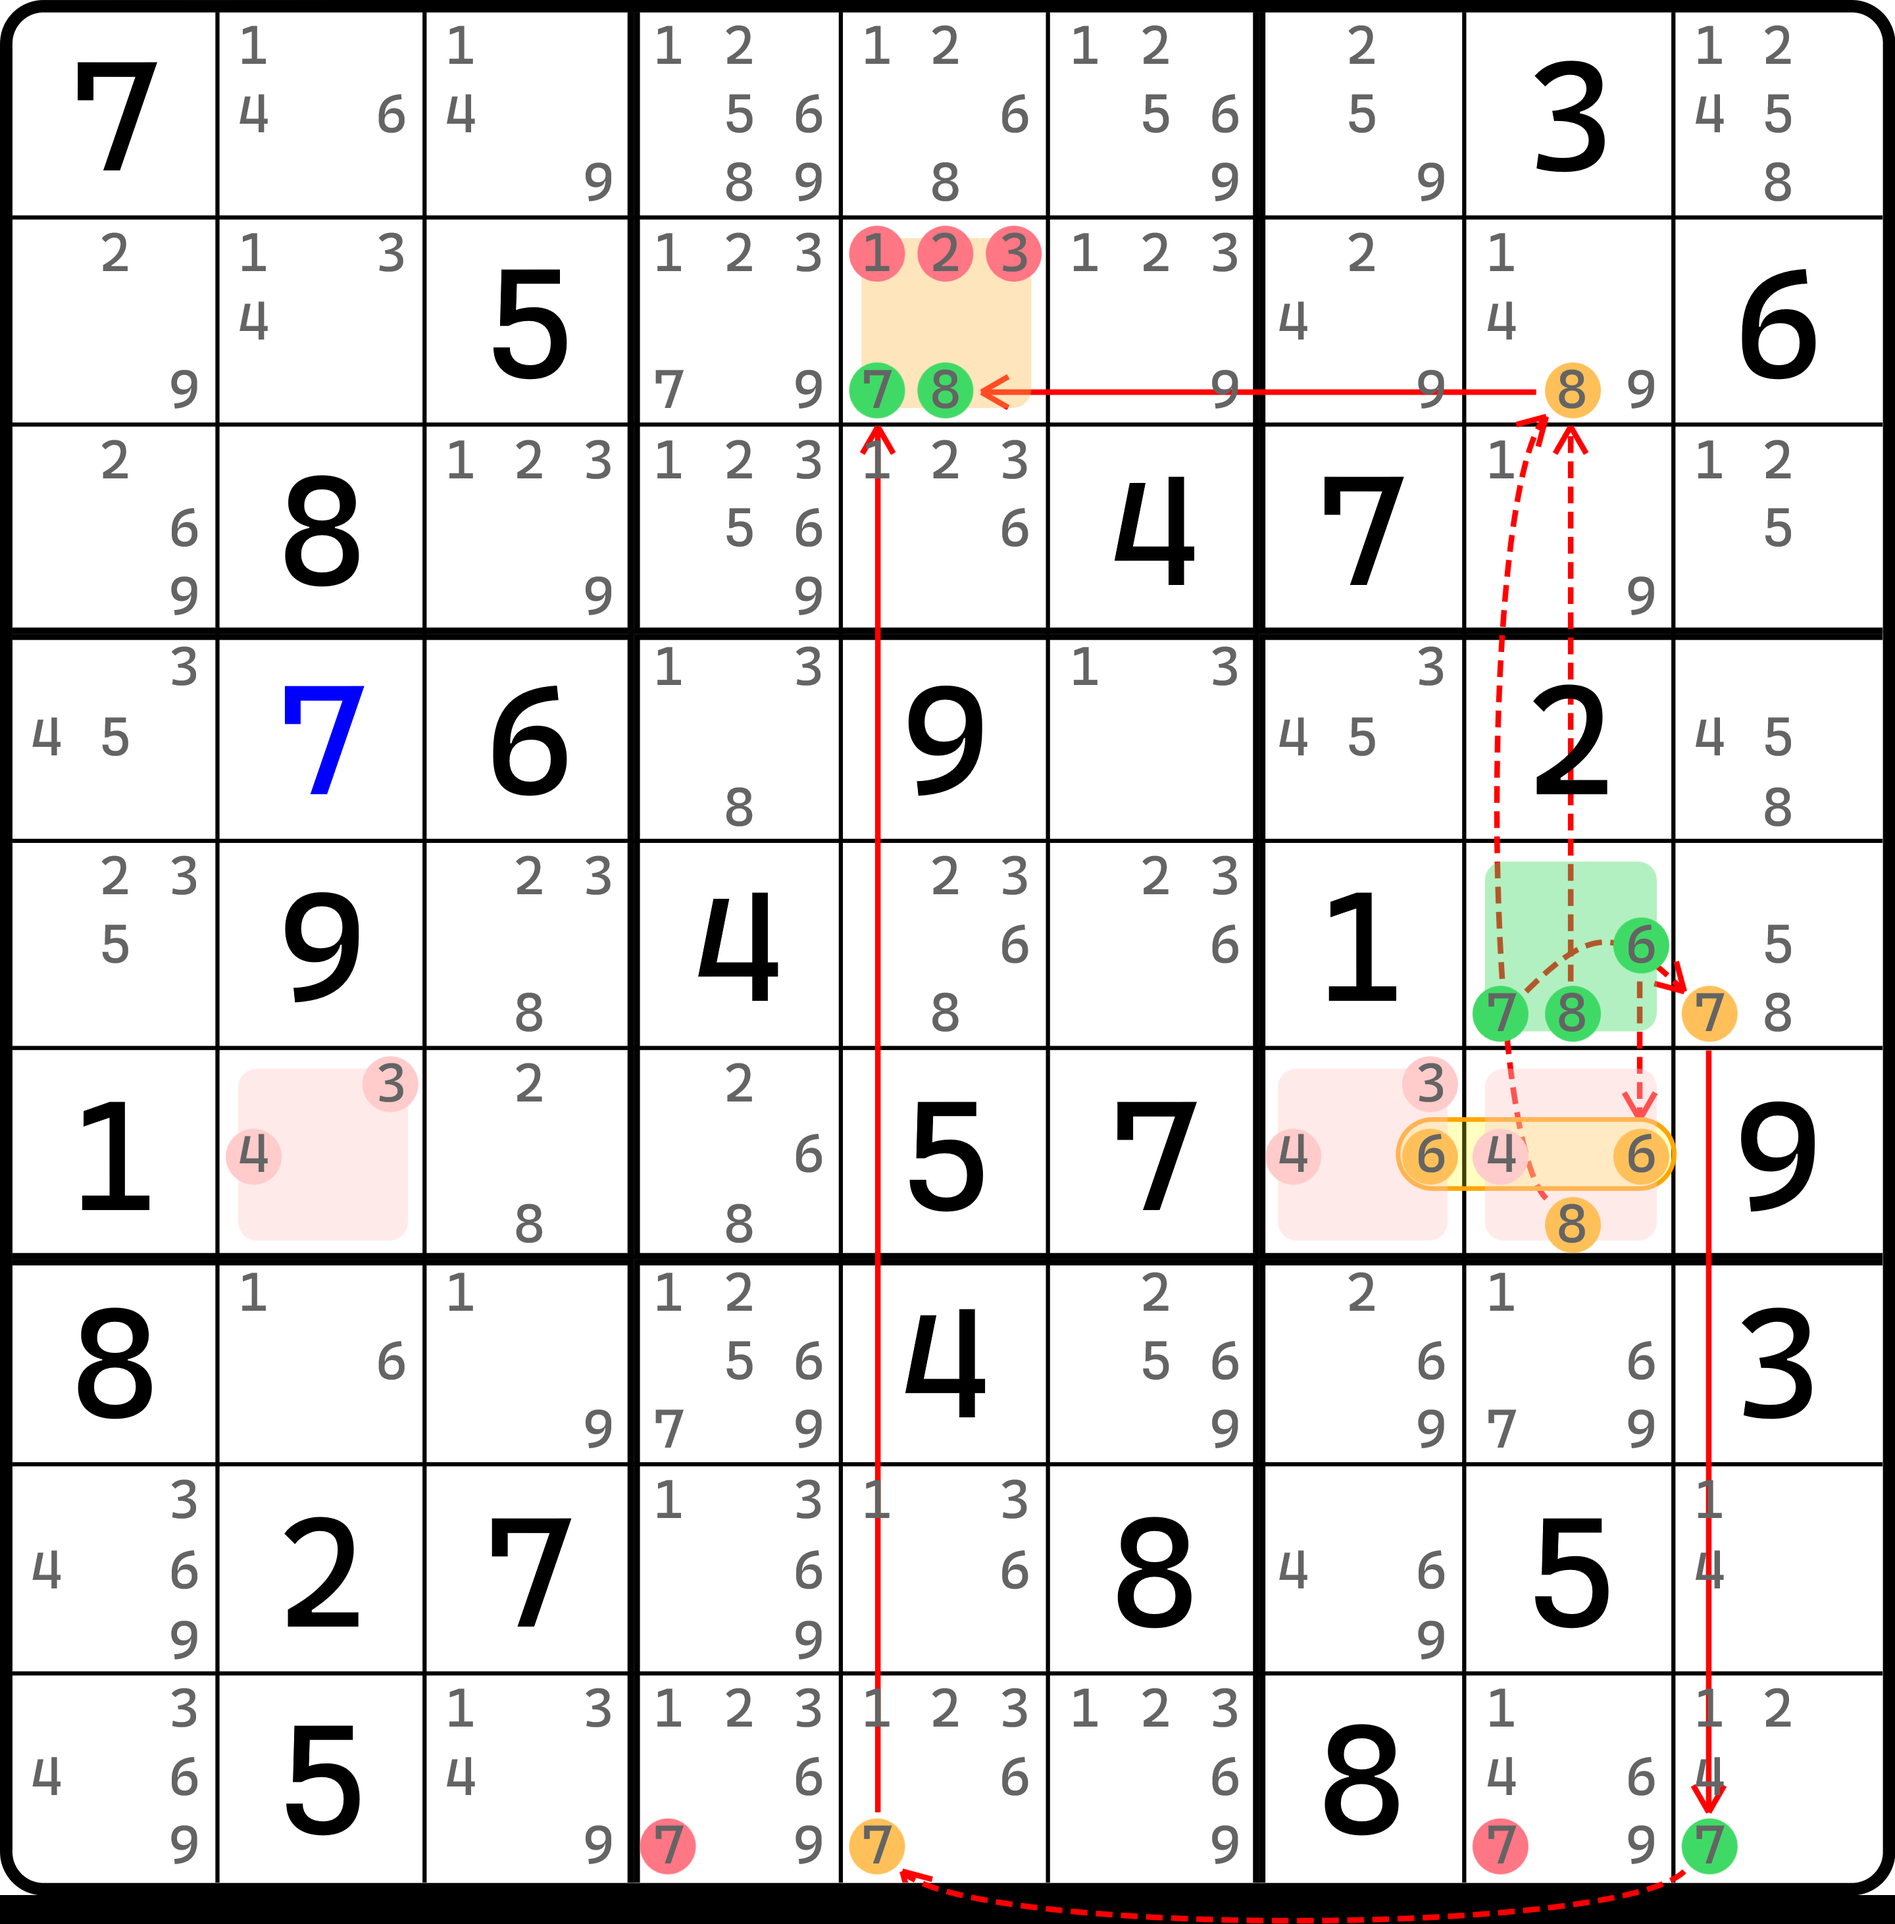
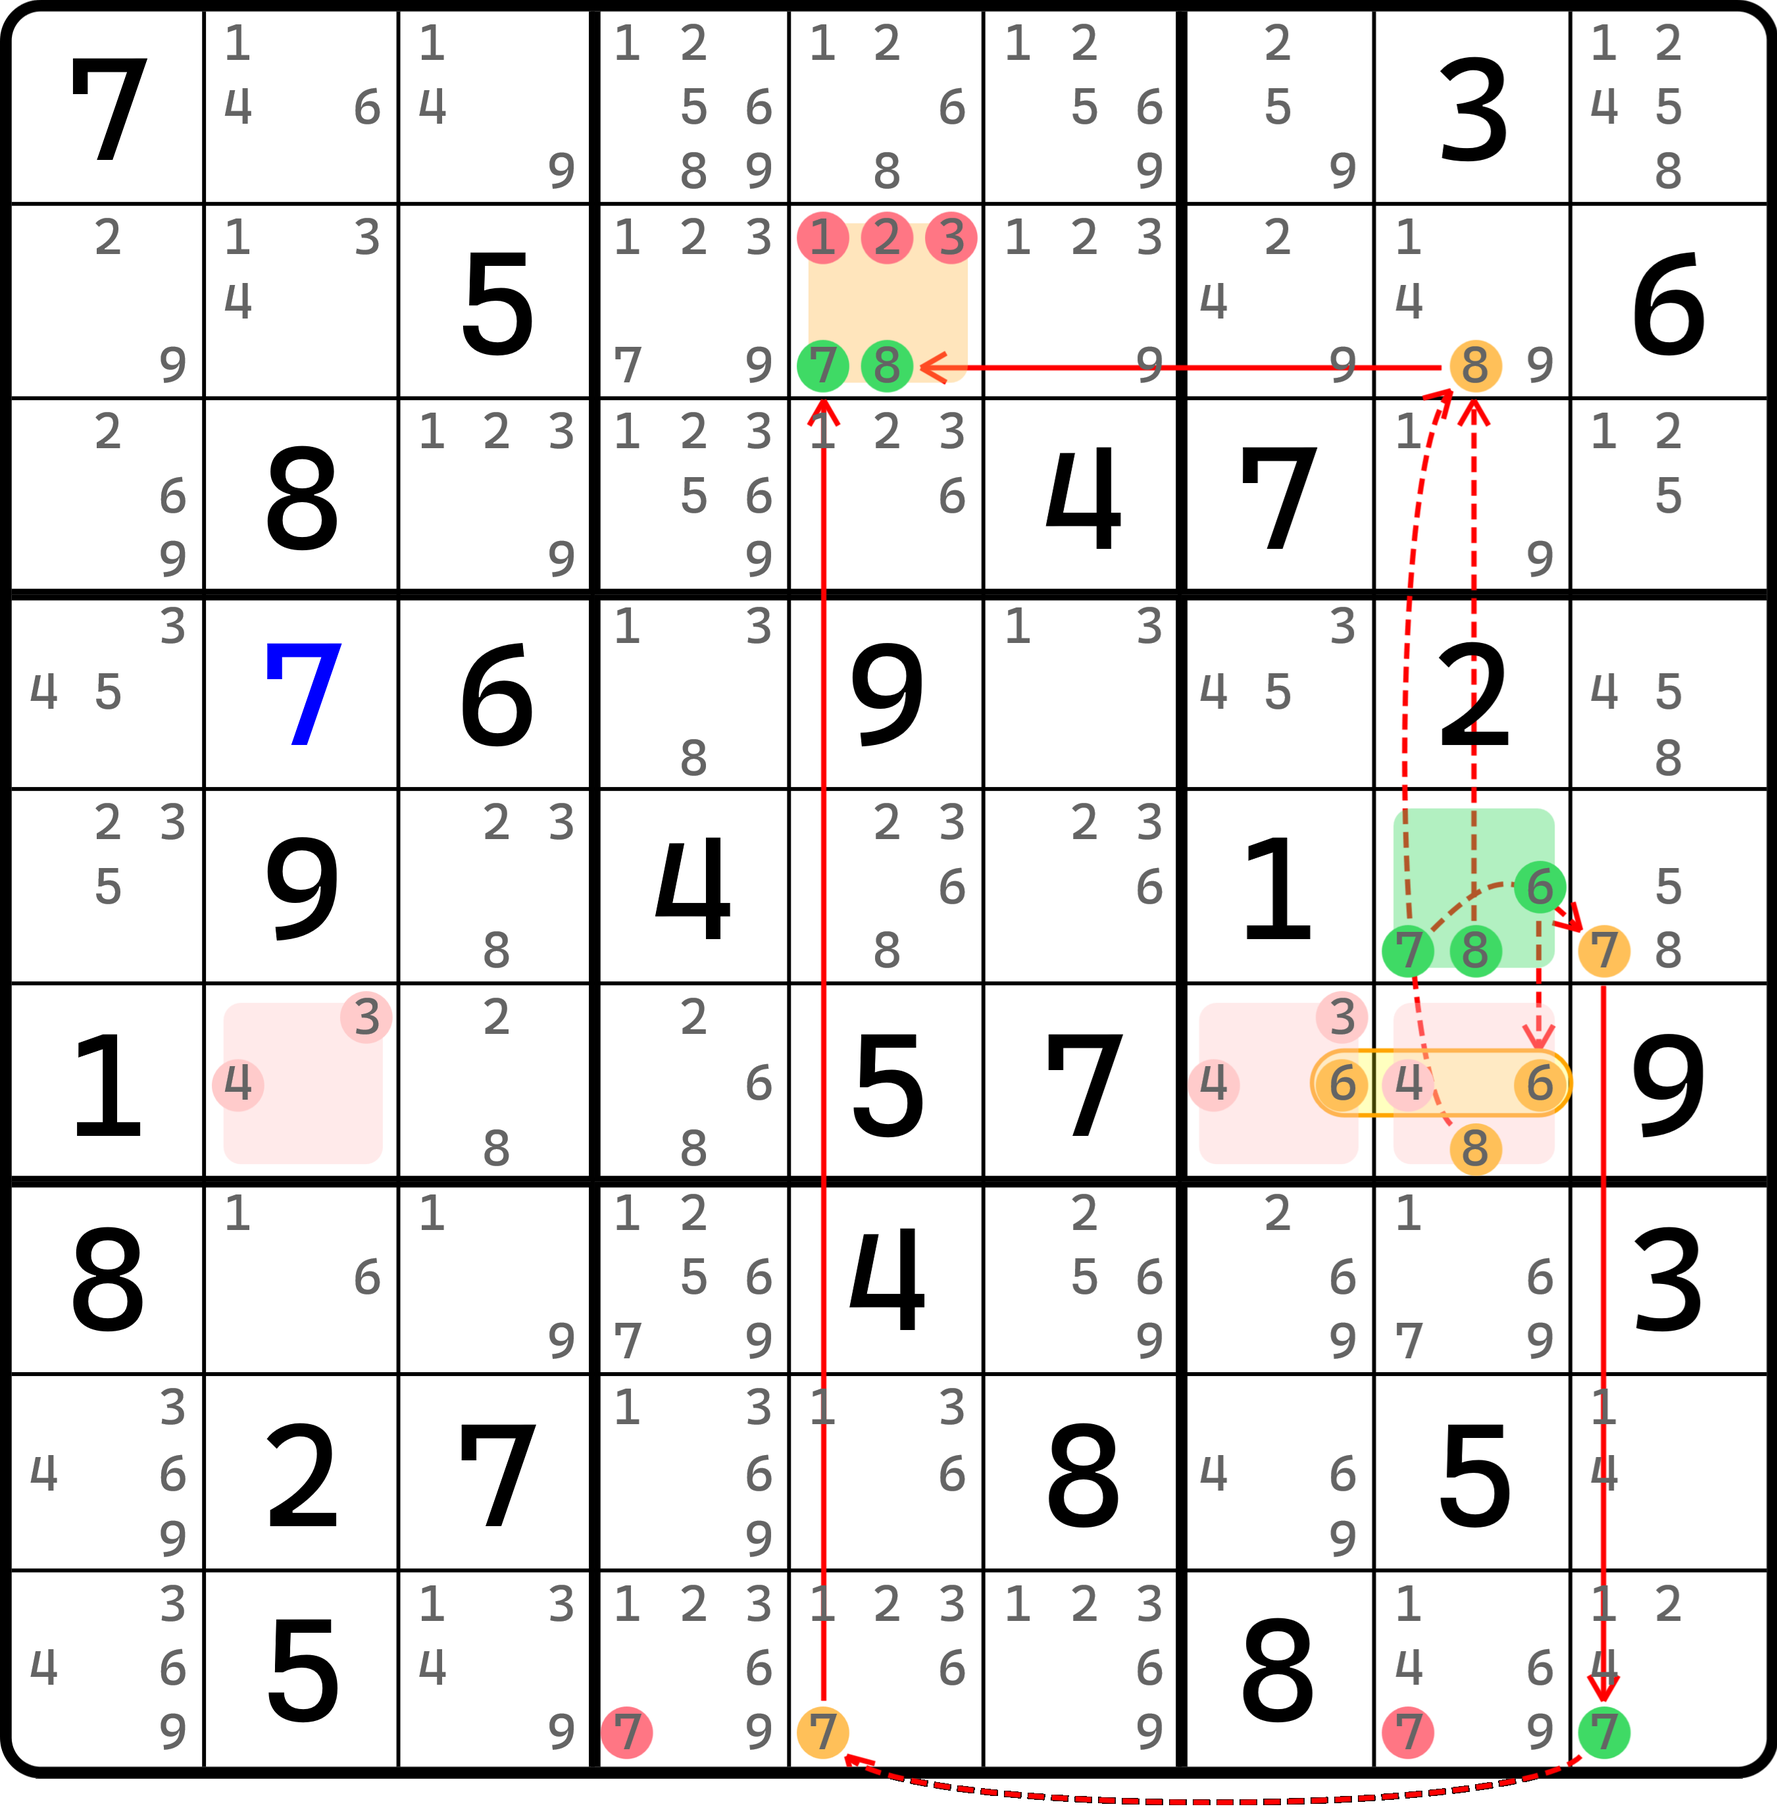
GITBOOK-133: 修复图片底边问题。

diff --git a/docs/tutorial/chain-theory/10-forcing-chains.md b/docs/tutorial/chain-theory/10-forcing-chains.md
@@ -233,6 +233,6 @@ $$
 
 <figure><img src="../.gitbook/assets/images_0367.png" alt="" width="375"><figcaption><p>绽放环，另一个例子</p></figcaption></figure>
 
-如图所示。因为这个题的弱链关系画到图片外面去了，导致了我的软件制出来的图有些难以抠图。实在是有点麻烦，这里就不弄了。如果你用的白天主题看教程的话，这里会有一坨黑的底边，这是因为链超出了图片绘制范畴产生的问题，不影响推理。
+如图所示。这个题也希望你自己推理。
 
 那么至此我们就把强制链的内容介绍完了。
